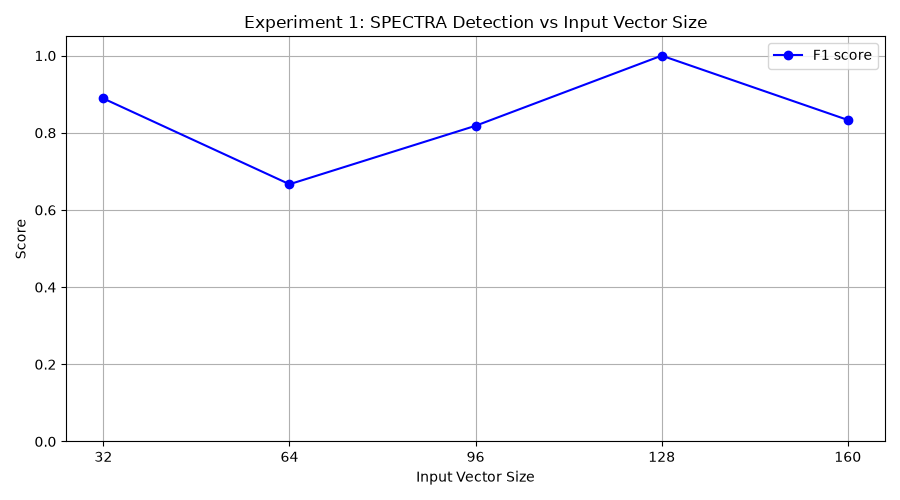
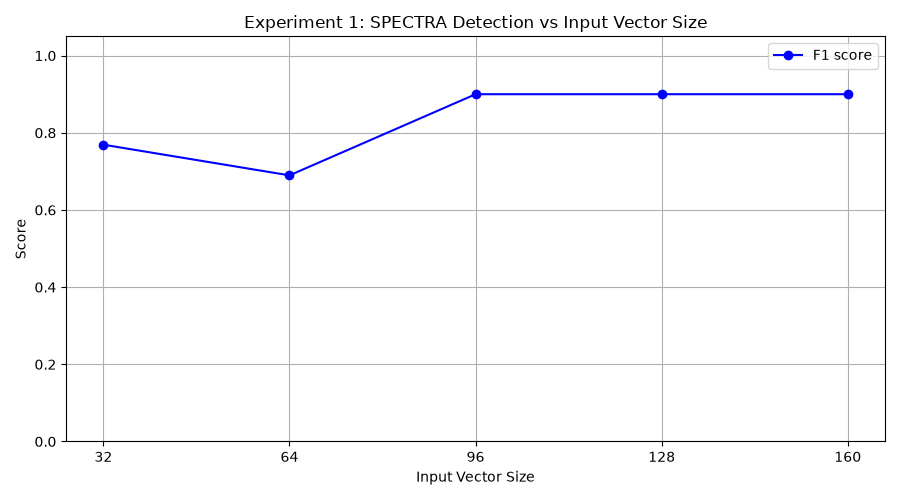
Partial Results

diff --git a/AccuracyExperiment/Experiment1.py b/AccuracyExperiment/Experiment1.py
@@ -4,7 +4,7 @@ Experiment 1 – SPECTRA accuracy experiment (improved design).
 Dataset split
 -------------
   30 % → miner training set
-  70 % → scientist test set
+  100 % → scientist test set
 
 Miner phase
 -----------
@@ -321,14 +321,14 @@ def parse_args():
 
     mg = p.add_argument_group("miner snapshot trainer")
     mg.add_argument("--miner-batch-size", type=int,   default=64)
-    mg.add_argument("--miner-epochs",     type=int,   default=40,
+    mg.add_argument("--miner-epochs",     type=int,   default=25,
                     help="More epochs → more AT training data")
     mg.add_argument("--miner-lr",         type=float, default=1e-3)
     mg.add_argument("--miner-hidden",     type=int,   default=64)
 
     sg = p.add_argument_group("scientist snapshot trainer")
     sg.add_argument("--snap-batch-size", type=int,   default=64)
-    sg.add_argument("--snap-epochs",     type=int,   default=10)
+    sg.add_argument("--snap-epochs",     type=int,   default=25)
     sg.add_argument("--snap-lr",         type=float, default=1e-3)
     sg.add_argument("--snap-hidden",     type=int,   default=64)
 
